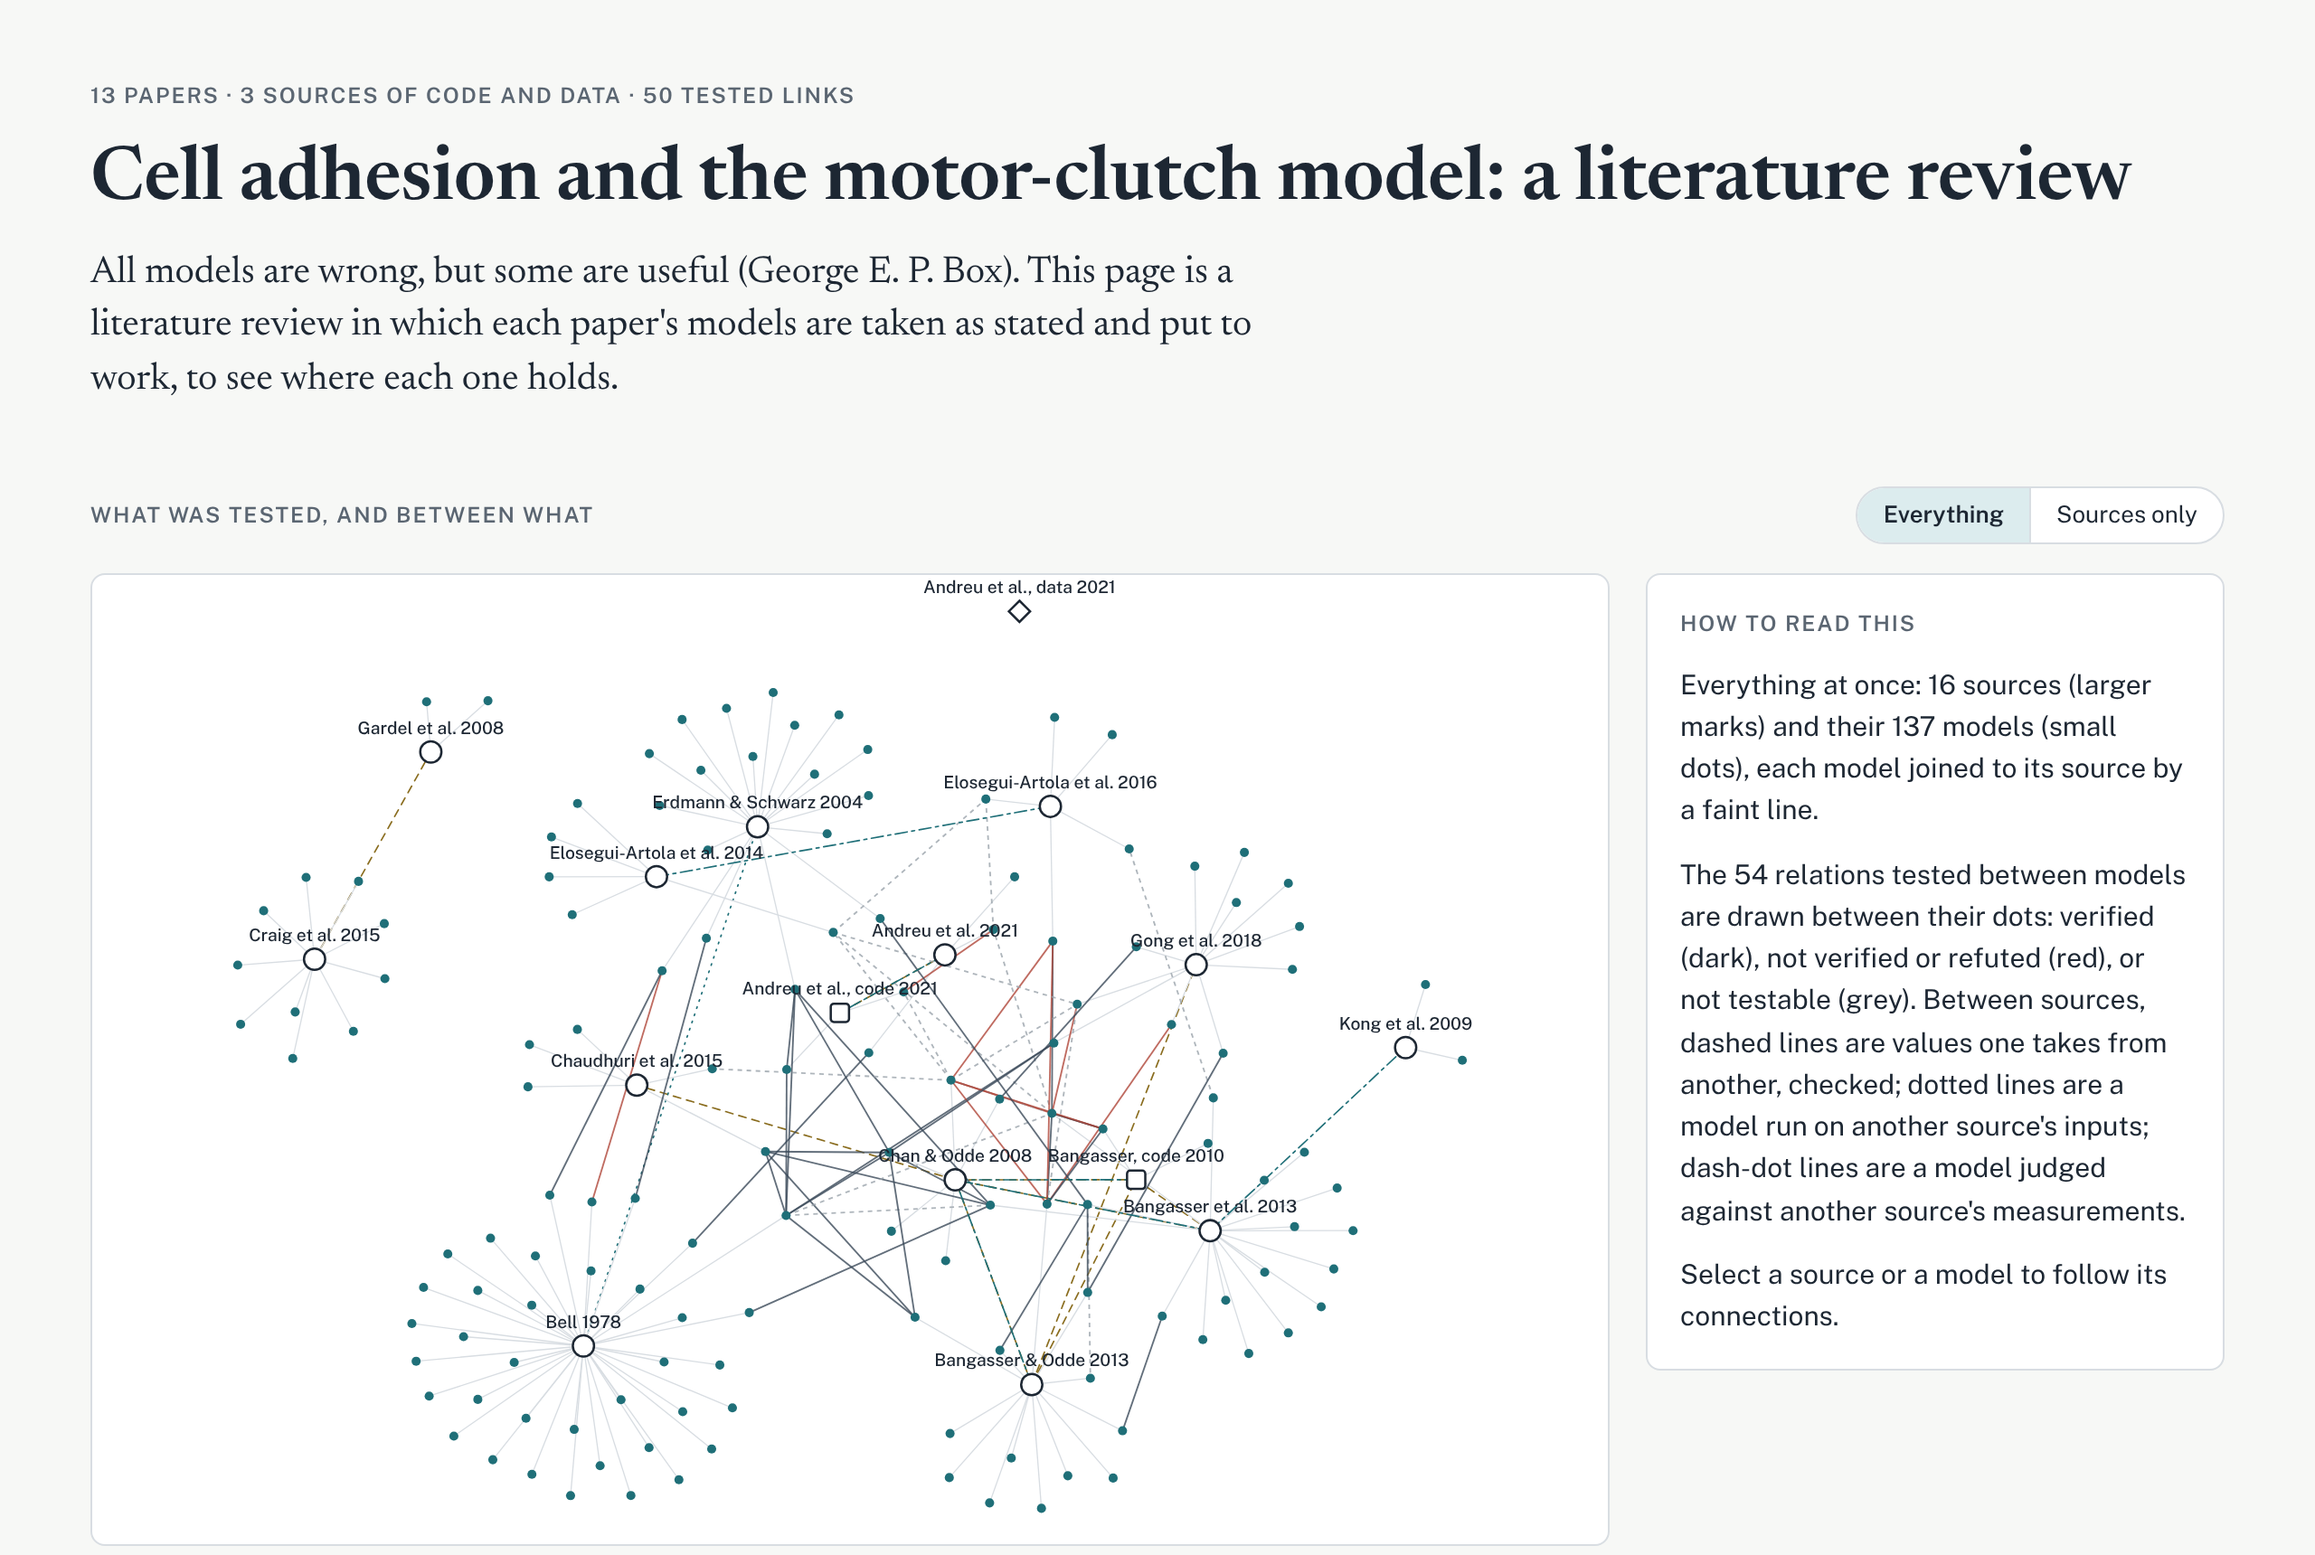
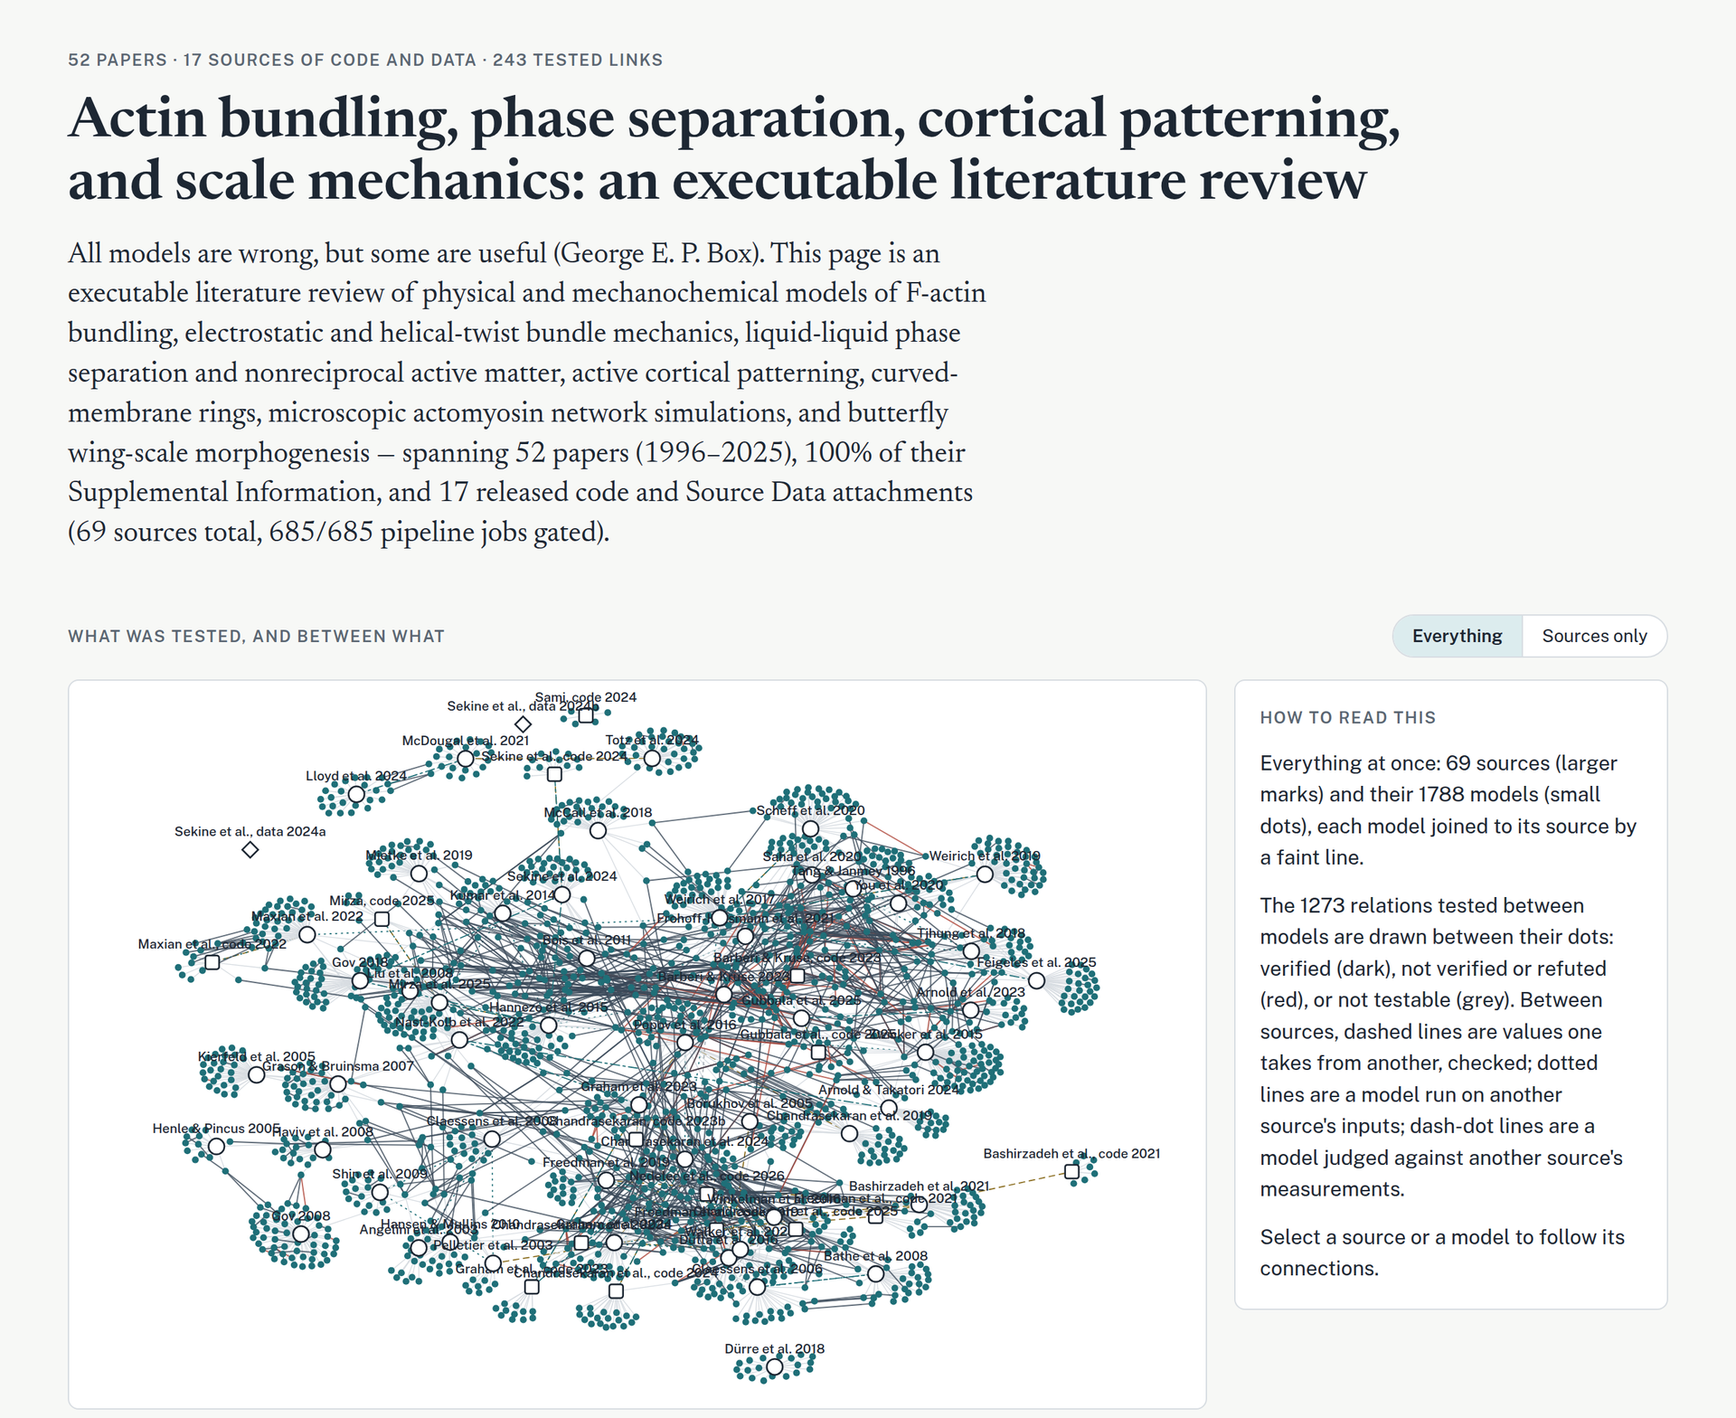
README: add Pages/CI badges, 69-source overview screenshot, and prominent Pages link

diff --git a/README.md b/README.md
@@ -1,5 +1,8 @@
 # BoxGraph
 
+[![pages](https://github.com/elejeune11/boxgraph-lepidoptera/actions/workflows/pages.yml/badge.svg)](https://github.com/elejeune11/boxgraph-lepidoptera/actions/workflows/pages.yml)
+[![ci](https://github.com/elejeune11/boxgraph-lepidoptera/actions/workflows/ci.yml/badge.svg)](https://github.com/elejeune11/boxgraph-lepidoptera/actions/workflows/ci.yml)
+
 > [!WARNING]
 > **Work in progress.** BoxGraph and its corpora are under active development, and the
 > format, the code and the results may still change. The records are written by agent jobs
@@ -40,14 +43,18 @@ flags every result elsewhere that depends on it.
 
 This repository ([elejeune11/boxgraph-lepidoptera](https://github.com/elejeune11/boxgraph-lepidoptera),
 adapted from [elejeune11/boxgraph-public](https://github.com/elejeune11/boxgraph-public))
-builds an executable literature review of **actin bundling, phase separation, cortical patterning, and butterfly wing-scale mechanics**
-in [`corpora/actin_bundling/`](corpora/actin_bundling/papers.yaml) (**69 sources**: **52 papers** spanning 1996–2025, 100% of their
-Supplemental Information including converted Word SI files, and **17 released code and Source Data attachments**; `685/685` pipeline jobs gated).
+publishes an executable literature review on GitHub Pages at
+[the landing page](https://elejeune11.github.io/boxgraph-lepidoptera/).
 
-Its interactive overview page is generated by `boxgraph build` (`build/actin_bundling/overview/index.html`,
-copied to `site/actin_bundling/` by `make build site CORPUS=actin_bundling` and published via GitHub Pages at
-[https://elejeune11.github.io/boxgraph-lepidoptera/](https://elejeune11.github.io/boxgraph-lepidoptera/)); every number on it comes from
-the audited records.
+[![The overview: 69 sources and 1,788 models, joined by 243 tested links](docs/figures/overview.png)](https://elejeune11.github.io/boxgraph-lepidoptera/actin_bundling/)
+
+**[Open the interactive overview →](https://elejeune11.github.io/boxgraph-lepidoptera/actin_bundling/)**
+An executable literature review of **actin bundling, phase separation, cortical patterning, and butterfly wing-scale mechanics**,
+spanning **69 sources** (**52 papers** from 1996–2025, 100% of their Supplemental Information including converted Word SI files,
+and **17 released code and Source Data archives**; `1,788` models, `2,201` calibrated figures, `243` tested links, `18` traced case studies,
+and `685/685` pipeline jobs gated). The page is generated by `boxgraph build` (`build/actin_bundling/overview/index.html`,
+copied to `site/actin_bundling/` by `make build site CORPUS=actin_bundling` and served by GitHub Pages); every number on it comes from
+the audited records in [`corpora/actin_bundling/`](corpora/actin_bundling/papers.yaml).
 
 ## Contents
 
